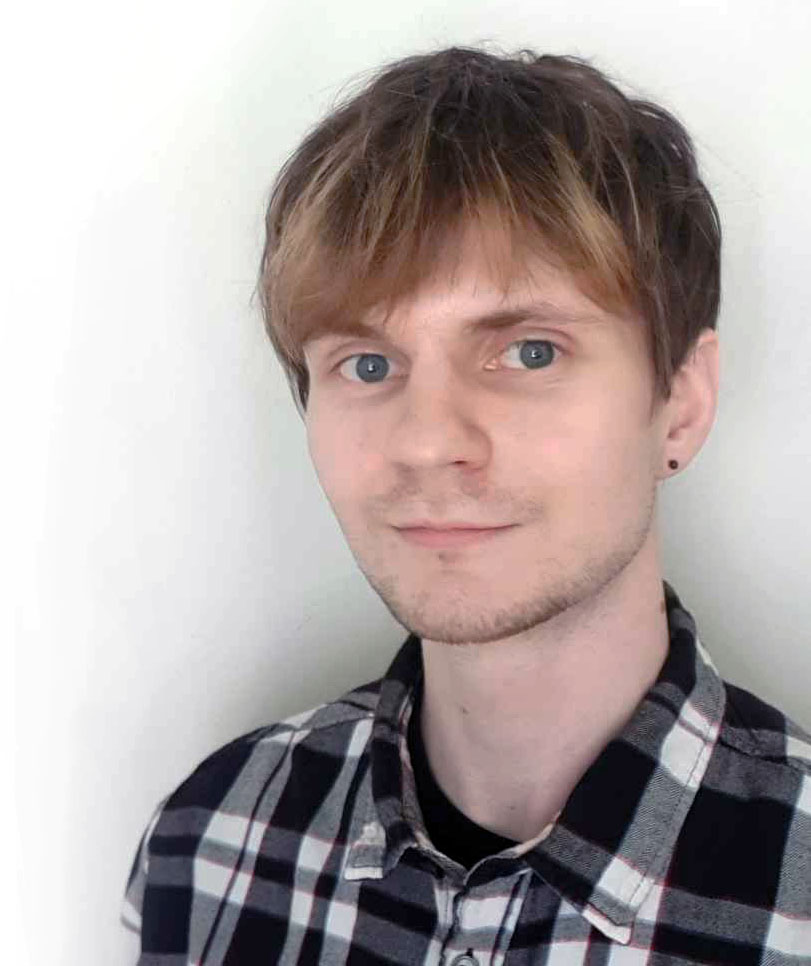
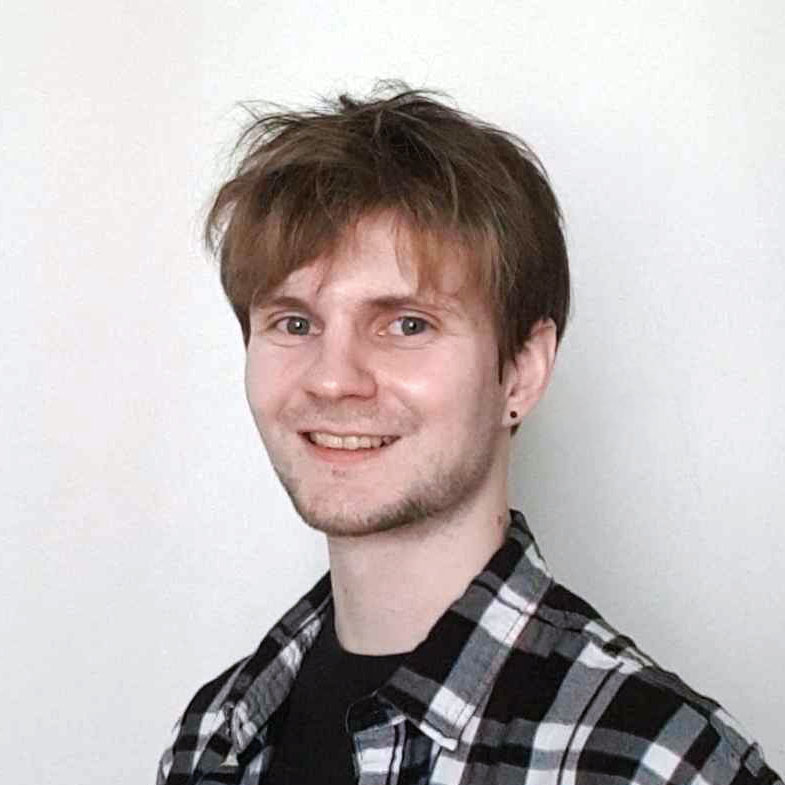
New me image + switched back to index.html for homepage links

diff --git a/about-me.html b/about-me.html
@@ -26,14 +26,14 @@
 						
 					<!-- Banner -->
 						<header>
-							<h1><a href="/portfolio.github.io/">Gunnar Magnussen</a></h1>
+							<h1><a href="index.html">Gunnar Magnussen</a></h1>
 							<p> <b>Game Programmer</b> | Gameplay, graphics and general game development.</p>
 						</header>
 
 					<!-- Nav -->
 						<nav id="nav">
 							<ul>
-								<li><a href="/portfolio.github.io/">Projects</a></li>
+								<li><a href="index.html">Projects</a></li>
 								<li><a href="education.html">Experience & Education</a>
 								<li class="current"><a href="about-me.html">About Me</a></li>
 							</ul>
@@ -47,7 +47,8 @@
 							<div class="col-4 col-12-medium">
 
 								<!-- Sidebar -->
-									<a href="#" class="image featured"><img src="images/Gunnar_2.jpg" alt="" /></a>
+									<a class="image featured"><img src="images/Gunnar_2.jpg" alt="" /></a>
+									<a style="width: 100%;" href="#" class="button alt">Download Resume</a>
 
 							</div>
 							<div class="col-8 col-12-medium imp-medium">

diff --git a/education.html b/education.html
@@ -26,14 +26,14 @@
 						
 				<!-- Banner -->
 					<header>
-						<h1><a href="/portfolio.github.io/">Gunnar Magnussen</a></h1>
+						<h1><a href="index.html">Gunnar Magnussen</a></h1>
 						<p> <b>Game Programmer</b> | Gameplay, graphics and general game development.</p>
 					</header>
 
 				<!-- Nav -->
 					<nav id="nav">
 						<ul>
-							<li><a href="/portfolio.github.io/">Projects</a></li>
+							<li><a href="index.html">Projects</a></li>
 							<li class="current"><a href="#">Experience & Education</a>
 							<li><a href="about-me.html">About Me</a></li>
 						</ul>

diff --git a/archery-coding-challenge.html b/archery-coding-challenge.html
@@ -26,14 +26,14 @@
 						
 				<!-- Banner -->
 					<header>
-						<h1><a href="/portfolio.github.io/">Gunnar Magnussen</a></h1>
+						<h1><a href="index.html">Gunnar Magnussen</a></h1>
 						<p> <b>Game Programmer</b> | Gameplay, graphics and general game development.</p>
 					</header>
 
 				<!-- Nav -->
 					<nav id="nav">
 						<ul>
-							<li><a href="/portfolio.github.io/">Projects</a></li>
+							<li><a href="index.html">Projects</a></li>
 							<li><a href="education.html">Experience & Education</a>
 							<li><a href="about-me.html">About Me</a></li>
 						</ul>

diff --git a/charrys-passage.html b/charrys-passage.html
@@ -26,14 +26,14 @@
 						
 				<!-- Banner -->
 					<header>
-						<h1><a href="/portfolio.github.io/">Gunnar Magnussen</a></h1>
+						<h1><a href="index.html">Gunnar Magnussen</a></h1>
 						<p> <b>Game Programmer</b> | Gameplay, graphics and general game development.</p>
 					</header>
 
 				<!-- Nav -->
 					<nav id="nav">
 						<ul>
-							<li><a href="/portfolio.github.io/">Projects</a></li>
+							<li><a href="index.html">Projects</a></li>
 							<li><a href="education.html">Experience & Education</a>
 							<li><a href="about-me.html">About Me</a></li>
 						</ul>

diff --git a/downspace.html b/downspace.html
@@ -26,14 +26,14 @@
 						
 				<!-- Banner -->
 					<header>
-						<h1><a href="/portfolio.github.io/">Gunnar Magnussen</a></h1>
+						<h1><a href="index.html">Gunnar Magnussen</a></h1>
 						<p> <b>Game Programmer</b> | Gameplay, graphics and general game development.</p>
 					</header>
 
 				<!-- Nav -->
 					<nav id="nav">
 						<ul>
-							<li><a href="/portfolio.github.io/">Projects</a></li>
+							<li><a href="index.html">Projects</a></li>
 							<li><a href="education.html">Experience & Education</a>
 							<li><a href="about-me.html">About Me</a></li>
 						</ul>

diff --git a/game-jams.html b/game-jams.html
@@ -26,14 +26,14 @@
 						
 				<!-- Banner -->
 					<header>
-						<h1><a href="/portfolio.github.io/">Gunnar Magnussen</a></h1>
+						<h1><a href="index.html">Gunnar Magnussen</a></h1>
 						<p> <b>Game Programmer</b> | Gameplay, graphics and general game development.</p>
 					</header>
 
 				<!-- Nav -->
 					<nav id="nav">
 						<ul>
-							<li><a href="/portfolio.github.io/">Projects</a></li>
+							<li><a href="index.html">Projects</a></li>
 							<li><a href="education.html">Experience & Education</a>
 							<li><a href="about-me.html">About Me</a></li>
 						</ul>

diff --git a/prax.html b/prax.html
@@ -26,14 +26,14 @@
 						
 				<!-- Banner -->
 					<header>
-						<h1><a href="/portfolio.github.io/">Gunnar Magnussen</a></h1>
+						<h1><a href="index.html">Gunnar Magnussen</a></h1>
 						<p> <b>Game Programmer</b> | Gameplay, graphics and general game development.</p>
 					</header>
 
 				<!-- Nav -->
 					<nav id="nav">
 						<ul>
-							<li><a href="/portfolio.github.io/">Projects</a></li>
+							<li><a href="index.html">Projects</a></li>
 							<li><a href="education.html">Experience & Education</a>
 							<li><a href="about-me.html">About Me</a></li>
 						</ul>

diff --git a/project-invicta.html b/project-invicta.html
@@ -26,14 +26,14 @@
 						
 				<!-- Banner -->
 					<header>
-						<h1><a href="/portfolio.github.io/">Gunnar Magnussen</a></h1>
+						<h1><a href="index.html">Gunnar Magnussen</a></h1>
 						<p> <b>Game Programmer</b> | Gameplay, graphics and general game development.</p>
 					</header>
 
 				<!-- Nav -->
 					<nav id="nav">
 						<ul>
-							<li><a href="/portfolio.github.io/">Projects</a></li>
+							<li><a href="index.html">Projects</a></li>
 							<li><a href="education.html">Experience & Education</a>
 							<li><a href="about-me.html">About Me</a></li>
 						</ul>

diff --git a/ue5-fps-coding-challenge.html b/ue5-fps-coding-challenge.html
@@ -26,14 +26,14 @@
 						
 				<!-- Banner -->
 					<header>
-						<h1><a href="/portfolio.github.io/">Gunnar Magnussen</a></h1>
+						<h1><a href="index.html">Gunnar Magnussen</a></h1>
 						<p> <b>Game Programmer</b> | Gameplay, graphics and general game development.</p>
 					</header>
 
 				<!-- Nav -->
 					<nav id="nav">
 						<ul>
-							<li><a href="/portfolio.github.io/">Projects</a></li>
+							<li><a href="index.html">Projects</a></li>
 							<li><a href="education.html">Experience & Education</a>
 							<li><a href="about-me.html">About Me</a></li>
 						</ul>

diff --git a/index.html b/index.html
@@ -33,7 +33,7 @@
 					<!-- Nav -->
 						<nav id="nav">
 							<ul>
-								<li class="current"><a href="/portfolio.github.io/">Projects</a></li>
+								<li class="current"><a href="index.html">Projects</a></li>
 								<li><a href="education.html">Experience & Education</a>
 								<li><a href="about-me.html">About Me</a></li>
 							</ul>
